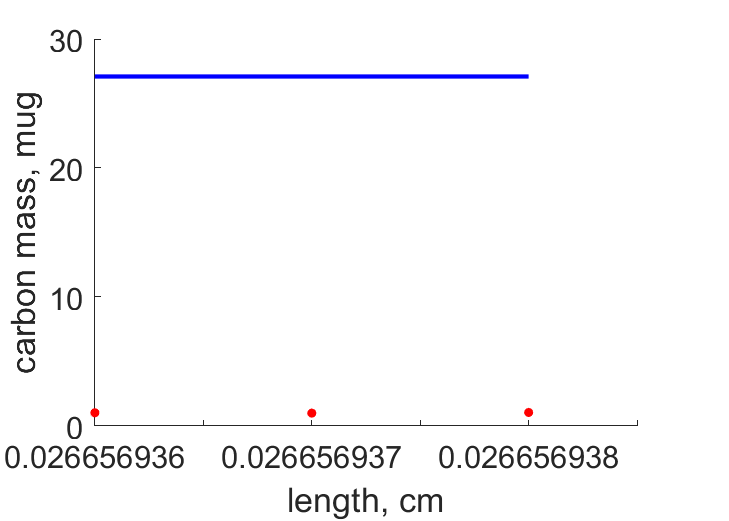
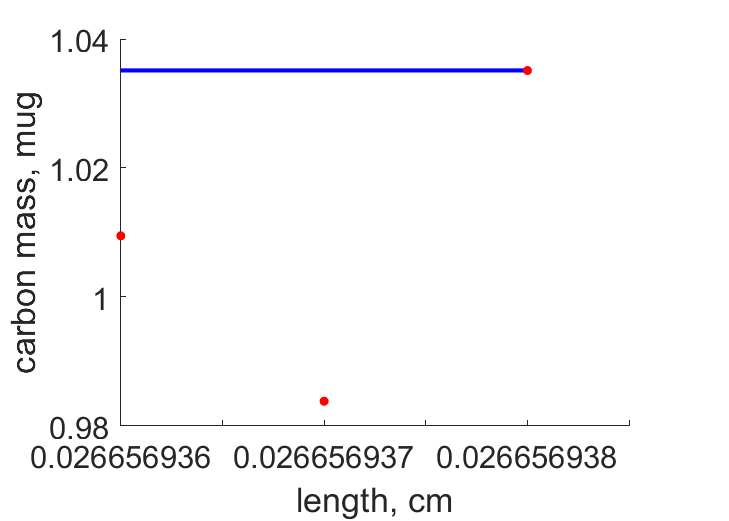
updates
updated parameter values, plotting of reproduction data

diff --git a/Tachidius_discipes/Tachidius_discipes_res.html b/Tachidius_discipes/Tachidius_discipes_res.html
@@ -44,7 +44,7 @@
   </div>
 
   <div class="par">
-  <h4>COMPLETE = 2.0; MRE =    2.252; SMAE =    0.810; SMSE =    0.836 </h4>
+  <h4>COMPLETE = 2.0; MRE =    0.160; SMAE =    0.192; SMSE =    0.107 </h4>
   </div>
 
   <p class="clear"></p>
@@ -53,29 +53,29 @@
   <h2>Data & predictions</h2>
   <TABLE id="prd">
     <TR  class="head"><TH>data</TH> <TH>prd</TH> <TH>RE</TH>  <TH>symbol</TH> <TH>units</TH> <TH>description</TH> </TR>
-    <TR><TD>4.375</TD> <TD>4.649</TD> <TD>0.06253</TD> <TD>ah</TD> <TD>d</TD> <TD>age at hatch</TD></TR>
-    <TR><TD>0.006853</TD> <TD>0.006707</TD> <TD>0.02121</TD> <TD>Lh</TD> <TD>cm</TD> <TD>length at hatch</TD></TR>
-    <TR><TD>0.007812</TD> <TD>0.006925</TD> <TD>0.1135</TD> <TD>Lb</TD> <TD>cm</TD> <TD>length at birth</TD></TR>
-    <TR><TD>0.02666</TD> <TD>0.03146</TD> <TD>0.1802</TD> <TD>Lp</TD> <TD>cm</TD> <TD>length at puberty</TD></TR>
-    <TR><TD>2.057e-05</TD> <TD>8.872e-05</TD> <TD>3.313</TD> <TD>Wdp</TD> <TD>g</TD> <TD>ultimate dry weight at puberty</TD></TR>
-    <TR><TD colspan="2">see figure</TD> <TD>0.2007</TD> <TD>tL12</TD> <TD colspan="2">time <font color="blue"><i>vs.</i></font> length</TD>
-    <TR><TD colspan="2">see figure</TD> <TD>0.1412</TD> <TD>tL15</TD> <TD colspan="2">time <font color="blue"><i>vs.</i></font> length</TD>
-    <TR><TD colspan="2">see figure</TD> <TD>0.209</TD> <TD>tL18</TD> <TD colspan="2">time <font color="blue"><i>vs.</i></font> length</TD>
-    <TR><TD colspan="2">see figure</TD> <TD>0.3742</TD> <TD>tL21</TD> <TD colspan="2">time <font color="blue"><i>vs.</i></font> length</TD>
-    <TR><TD colspan="2">see figure</TD> <TD>0.5766</TD> <TD>tL24</TD> <TD colspan="2">time <font color="blue"><i>vs.</i></font> length</TD>
-    <TR><TD colspan="2">see figure</TD> <TD>  1</TD> <TD>tN12</TD> <TD colspan="2">time <font color="blue"><i>vs.</i></font> clutch size</TD>
-    <TR><TD colspan="2">see figure</TD> <TD>0.9889</TD> <TD>tN15</TD> <TD colspan="2">time <font color="blue"><i>vs.</i></font> clutch size</TD>
-    <TR><TD colspan="2">see figure</TD> <TD>0.9509</TD> <TD>tN18</TD> <TD colspan="2">time <font color="blue"><i>vs.</i></font> clutch size</TD>
-    <TR><TD colspan="2">see figure</TD> <TD>0.8513</TD> <TD>tN21</TD> <TD colspan="2">time <font color="blue"><i>vs.</i></font> clutch size</TD>
-    <TR><TD colspan="2">see figure</TD> <TD>0.6409</TD> <TD>tN24</TD> <TD colspan="2">time <font color="blue"><i>vs.</i></font> clutch size</TD>
-    <TR><TD colspan="2">see figure</TD> <TD>2.813</TD> <TD>Tah</TD> <TD colspan="2">temperature <font color="blue"><i>vs.</i></font> time</TD>
-    <TR><TD colspan="2">see figure</TD> <TD>25.84</TD> <TD>LWC</TD> <TD colspan="2">length <font color="blue"><i>vs.</i></font> carbon mass</TD>
-    <TR class="psd"><TD>0.02</TD> <TD>0.01896</TD> <TD>0.05205</TD> <TD>psd.v</TD> <TD>cm/d</TD> <TD>energy conductance</TD></TR>
-    <TR class="psd"><TD>0.8</TD> <TD>0.9982</TD> <TD>0.2477</TD> <TD>psd.kap</TD> <TD>-</TD> <TD>allocation fraction to soma</TD></TR>
+    <TR><TD>4.375</TD> <TD>4.023</TD> <TD>0.08041</TD> <TD>ah</TD> <TD>d</TD> <TD>age at hatch</TD></TR>
+    <TR><TD>0.006853</TD> <TD>0.007791</TD> <TD>0.137</TD> <TD>Lh</TD> <TD>cm</TD> <TD>length at hatch</TD></TR>
+    <TR><TD>0.007812</TD> <TD>0.008115</TD> <TD>0.0388</TD> <TD>Lb</TD> <TD>cm</TD> <TD>length at birth</TD></TR>
+    <TR><TD>0.02666</TD> <TD>0.02603</TD> <TD>0.02346</TD> <TD>Lp</TD> <TD>cm</TD> <TD>length at puberty</TD></TR>
+    <TR><TD>2.057e-05</TD> <TD>1.92e-06</TD> <TD>0.9067</TD> <TD>Wdp</TD> <TD>g</TD> <TD>ultimate dry weight at puberty</TD></TR>
+    <TR><TD colspan="2">see figure</TD> <TD>0.1908</TD> <TD>tL12</TD> <TD colspan="2">time <font color="blue"><i>vs.</i></font> length</TD>
+    <TR><TD colspan="2">see figure</TD> <TD>0.1908</TD> <TD>tL15</TD> <TD colspan="2">time <font color="blue"><i>vs.</i></font> length</TD>
+    <TR><TD colspan="2">see figure</TD> <TD>0.1894</TD> <TD>tL18</TD> <TD colspan="2">time <font color="blue"><i>vs.</i></font> length</TD>
+    <TR><TD colspan="2">see figure</TD> <TD>0.2049</TD> <TD>tL21</TD> <TD colspan="2">time <font color="blue"><i>vs.</i></font> length</TD>
+    <TR><TD colspan="2">see figure</TD> <TD>0.2371</TD> <TD>tL24</TD> <TD colspan="2">time <font color="blue"><i>vs.</i></font> length</TD>
+    <TR><TD colspan="2">see figure</TD> <TD>0.1148</TD> <TD>tN12</TD> <TD colspan="2">time <font color="blue"><i>vs.</i></font> clutch size</TD>
+    <TR><TD colspan="2">see figure</TD> <TD>0.3418</TD> <TD>tN15</TD> <TD colspan="2">time <font color="blue"><i>vs.</i></font> clutch size</TD>
+    <TR><TD colspan="2">see figure</TD> <TD>0.1801</TD> <TD>tN18</TD> <TD colspan="2">time <font color="blue"><i>vs.</i></font> clutch size</TD>
+    <TR><TD colspan="2">see figure</TD> <TD>0.52</TD> <TD>tN21</TD> <TD colspan="2">time <font color="blue"><i>vs.</i></font> clutch size</TD>
+    <TR><TD colspan="2">see figure</TD> <TD>0.3181</TD> <TD>tN24</TD> <TD colspan="2">time <font color="blue"><i>vs.</i></font> clutch size</TD>
+    <TR><TD colspan="2">see figure</TD> <TD>0.2288</TD> <TD>Tah</TD> <TD colspan="2">temperature <font color="blue"><i>vs.</i></font> time</TD>
+    <TR><TD colspan="2">see figure</TD> <TD>0.02542</TD> <TD>LWC</TD> <TD colspan="2">length <font color="blue"><i>vs.</i></font> carbon mass</TD>
+    <TR class="psd"><TD>0.02</TD> <TD>0.004978</TD> <TD>0.7511</TD> <TD>psd.v</TD> <TD>cm/d</TD> <TD>energy conductance</TD></TR>
+    <TR class="psd"><TD>0.8</TD> <TD>0.9851</TD> <TD>0.2314</TD> <TD>psd.kap</TD> <TD>-</TD> <TD>allocation fraction to soma</TD></TR>
     <TR class="psd"><TD>0.95</TD> <TD>0.95</TD> <TD>  0</TD> <TD>psd.kap_R</TD> <TD>-</TD> <TD>reproduction efficiency</TD></TR>
-    <TR class="psd"><TD> 18</TD> <TD>1000</TD> <TD>54.56</TD> <TD>psd.p_M</TD> <TD>J/d.cm^3</TD> <TD>vol-spec som maint</TD></TR>
+    <TR class="psd"><TD> 18</TD> <TD>1217</TD> <TD>66.64</TD> <TD>psd.p_M</TD> <TD>J/d.cm^3</TD> <TD>vol-spec som maint</TD></TR>
     <TR class="psd"><TD>0.002</TD> <TD>0.002</TD> <TD>  0</TD> <TD>psd.k_J</TD> <TD>1/d</TD> <TD>maturity maint rate coefficient</TD></TR>
-    <TR class="psd"><TD>0.8</TD> <TD>0.7991</TD> <TD>0.001185</TD> <TD>psd.kap_G</TD> <TD>-</TD> <TD>growth efficiency</TD></TR>
+    <TR class="psd"><TD>0.8</TD> <TD>0.7948</TD> <TD>0.00651</TD> <TD>psd.kap_G</TD> <TD>-</TD> <TD>growth efficiency</TD></TR>
   </TABLE>
   </div>
 
@@ -84,25 +84,24 @@
   <TABLE id="par">
     <TR class="head"><TH>symbol</TH> <TH>units</TH> <TH>value</TH>  <TH>free</TH> <TH>description</TH> </TR>
     <TR><TD>T_ref</TD> <TD>K</TD> <TD>293.1</TD> <TD>0</TD> <TD>Reference temperature</TD></TR>
-    <TR><TD>T_A</TD> <TD>K</TD> <TD>1.323e+04</TD> <TD>1</TD> <TD>Arrhenius temperature</TD></TR>
-    <TR><TD>z</TD> <TD>-</TD> <TD>0.1425</TD> <TD>1</TD> <TD>zoom factor</TD></TR>
+    <TR><TD>T_A</TD> <TD>K</TD> <TD>4037</TD> <TD>1</TD> <TD>Arrhenius temperature</TD></TR>
+    <TR><TD>z</TD> <TD>-</TD> <TD>0.03079</TD> <TD>1</TD> <TD>zoom factor</TD></TR>
     <TR><TD>F_m</TD> <TD>l/d.cm^2</TD> <TD>6.5</TD> <TD>0</TD> <TD>{F_m}, max spec searching rate</TD></TR>
     <TR><TD>kap_X</TD> <TD>-</TD> <TD>0.8</TD> <TD>0</TD> <TD>digestion efficiency of food to reserve</TD></TR>
     <TR><TD>kap_P</TD> <TD>-</TD> <TD>0.1</TD> <TD>0</TD> <TD>faecation efficiency of food to faeces</TD></TR>
-    <TR><TD>v</TD> <TD>cm/d</TD> <TD>0.01896</TD> <TD>1</TD> <TD>energy conductance</TD></TR>
-    <TR><TD>kap</TD> <TD>-</TD> <TD>0.9982</TD> <TD>1</TD> <TD>allocation fraction to soma</TD></TR>
+    <TR><TD>v</TD> <TD>cm/d</TD> <TD>0.004978</TD> <TD>1</TD> <TD>energy conductance</TD></TR>
+    <TR><TD>kap</TD> <TD>-</TD> <TD>0.9851</TD> <TD>1</TD> <TD>allocation fraction to soma</TD></TR>
     <TR><TD>kap_R</TD> <TD>-</TD> <TD>0.95</TD> <TD>0</TD> <TD>reproduction efficiency</TD></TR>
-    <TR><TD>p_M</TD> <TD>J/d.cm^3</TD> <TD>1000</TD> <TD>1</TD> <TD>[p_M], vol-spec somatic maint</TD></TR>
+    <TR><TD>p_M</TD> <TD>J/d.cm^3</TD> <TD>1217</TD> <TD>1</TD> <TD>[p_M], vol-spec somatic maint</TD></TR>
     <TR><TD>p_T</TD> <TD>J/d.cm^2</TD> <TD>  0</TD> <TD>0</TD> <TD>{p_T}, surf-spec somatic maint</TD></TR>
     <TR><TD>k_J</TD> <TD>1/d</TD> <TD>0.002</TD> <TD>0</TD> <TD>maturity maint rate coefficient</TD></TR>
-    <TR><TD>E_G</TD> <TD>J/cm^3</TD> <TD>4451</TD> <TD>1</TD> <TD>[E_G], spec cost for structure</TD></TR>
-    <TR><TD>E_Hb</TD> <TD>J</TD> <TD>1.78e-05</TD> <TD>1</TD> <TD>maturity at birth</TD></TR>
-    <TR><TD>E_Hp</TD> <TD>J</TD> <TD>0.003138</TD> <TD>1</TD> <TD>maturity at puberty</TD></TR>
-    <TR><TD>h_a</TD> <TD>1/d^2</TD> <TD>2.684e-12</TD> <TD>1</TD> <TD>Weibull aging acceleration</TD></TR>
+    <TR><TD>E_G</TD> <TD>J/cm^3</TD> <TD>4475</TD> <TD>1</TD> <TD>[E_G], spec cost for structure</TD></TR>
+    <TR><TD>E_Hb</TD> <TD>J</TD> <TD>9.975e-06</TD> <TD>1</TD> <TD>maturity at birth</TD></TR>
+    <TR><TD>E_Hp</TD> <TD>J</TD> <TD>0.0007033</TD> <TD>1</TD> <TD>maturity at puberty</TD></TR>
+    <TR><TD>h_a</TD> <TD>1/d^2</TD> <TD>6.562e-12</TD> <TD>1</TD> <TD>Weibull aging acceleration</TD></TR>
     <TR><TD>s_G</TD> <TD>-</TD> <TD>0.0001</TD> <TD>0</TD> <TD>Gompertz stress coefficient</TD></TR>
-    <TR><TD>t_0</TD> <TD>d</TD> <TD>1.623</TD> <TD>1</TD> <TD>time at start development (since egg sack has been spotted)</TD></TR>
-    <TR><TD>E_Hh</TD> <TD>J</TD> <TD>1.606e-05</TD> <TD>1</TD> <TD>maturity at hatch</TD></TR>
-    <TR><TD>del_M</TD> <TD>-</TD> <TD>1.79</TD> <TD>1</TD> <TD>shape coefficient</TD></TR>
+    <TR><TD>E_Hh</TD> <TD>J</TD> <TD>8.671e-06</TD> <TD>1</TD> <TD>maturity at hatch</TD></TR>
+    <TR><TD>del_M</TD> <TD>-</TD> <TD>0.6007</TD> <TD>1</TD> <TD>shape coefficient</TD></TR>
     <TR><TD>f</TD> <TD>-</TD> <TD>  1</TD> <TD>0</TD> <TD>scaled functional response for 0-var data</TD></TR>
   </TABLE>
   </div>

diff --git a/Tachidius_discipes/mydata_Tachidius_discipes.m b/Tachidius_discipes/mydata_Tachidius_discipes.m
@@ -86,7 +86,7 @@ data.tN12 = [...
 ];
 units.tN12 = {'d', '#'}; label.tN12= {'time', 'clutch size'};
 temp.tN12 = C2K(12); units.temp.tN12 = 'K'; label.temp.tN12 = 'temperature';
-bibkey.tL24 = {'Vigliano'};
+bibkey.tL24 = {'Vigliano'}; treat.tN12 = {0};
 
 
 data.tN15 = [...
@@ -102,6 +102,7 @@ data.tN15 = [...
 units.tN15 = {'d', '#'}; label.tN15= {'time', 'clutch size'};
 temp.tN15 = C2K(15); units.temp.tN15 = 'K'; label.temp.tN15 = 'temperature';
 bibkey.tL15 = {'Vigliano'};
+treat.tN15 = {0};
 
 data.tN18 = [...
 23.00	18
@@ -118,6 +119,7 @@ data.tN18 = [...
 units.tN18 = {'d', '#'}; label.tN18= {'time', 'clutch size'};
 temp.tN18 = C2K(18); units.temp.tN18 = 'K'; label.temp.tN18 = 'temperature';
 bibkey.tN18 = {'Vigliano'};
+treat.tN18 = {0};
 
 data.tN21 = [...
 17.00	29
@@ -133,7 +135,7 @@ data.tN21 = [...
 units.tN21 = {'d', '#'}; label.tN21= {'time', 'clutch size'};
 temp.tN21 = C2K(21); units.temp.tL21 = 'K'; label.temp.tN21 = 'temperature';
 bibkey.tN_21 = {'Vigliano'};
-
+treat.tN21 = {0};
 
 data.tN24 = [...
 17.00	12
@@ -152,6 +154,7 @@ data.tN24 = [...
 units.tN24 = {'d', '#'}; label.tN24= {'time', 'clutch size'};
 temp.tN24 = C2K(24); units.temp.tN24 = 'K'; label.temp.tN24 = 'temperature';
 bibkey.tN24 = {'Vigliano'};
+treat.tN24 = {0}; 
 
 %%tN_T data
 data.Tah= [...
@@ -227,6 +230,7 @@ weights.LWC = 10* weights.LWC;
 
 %% pack auxData and txtData for output
 auxData.temp = temp;
+auxData.treat = treat;
 txtData.units = units;
 txtData.label = label;
 txtData.bibkey = bibkey;
@@ -235,7 +239,7 @@ txtData.bibkey = bibkey;
 set1 = {'tL12','tL15', 'tL18','tL21', 'tL24'}; 
 subtitle1 = {'Growth at different temperatures'};
 set2 = {'tN12','tN15', 'tN18','tN21', 'tN24'}; 
-subtitle2 = {'Reproduction at different temperatures'};
+subtitle2 = {'Reproduction at 12, 15, 18, 21 and 24 debC'};
 metaData.grp.sets = {set1, set2};
 metaData.grp.comment = {subtitle1,subtitle2};
 

diff --git a/Tachidius_discipes/run_Tachidius_discipes.m b/Tachidius_discipes/run_Tachidius_discipes.m
@@ -11,6 +11,6 @@ estim_options('max_fun_evals',5e3);
 
 estim_options('pars_init_method', 1);
 estim_options('results_output', 3);
-estim_options('method', 'nm');
+estim_options('method', 'no');
 
 estim_pars;
